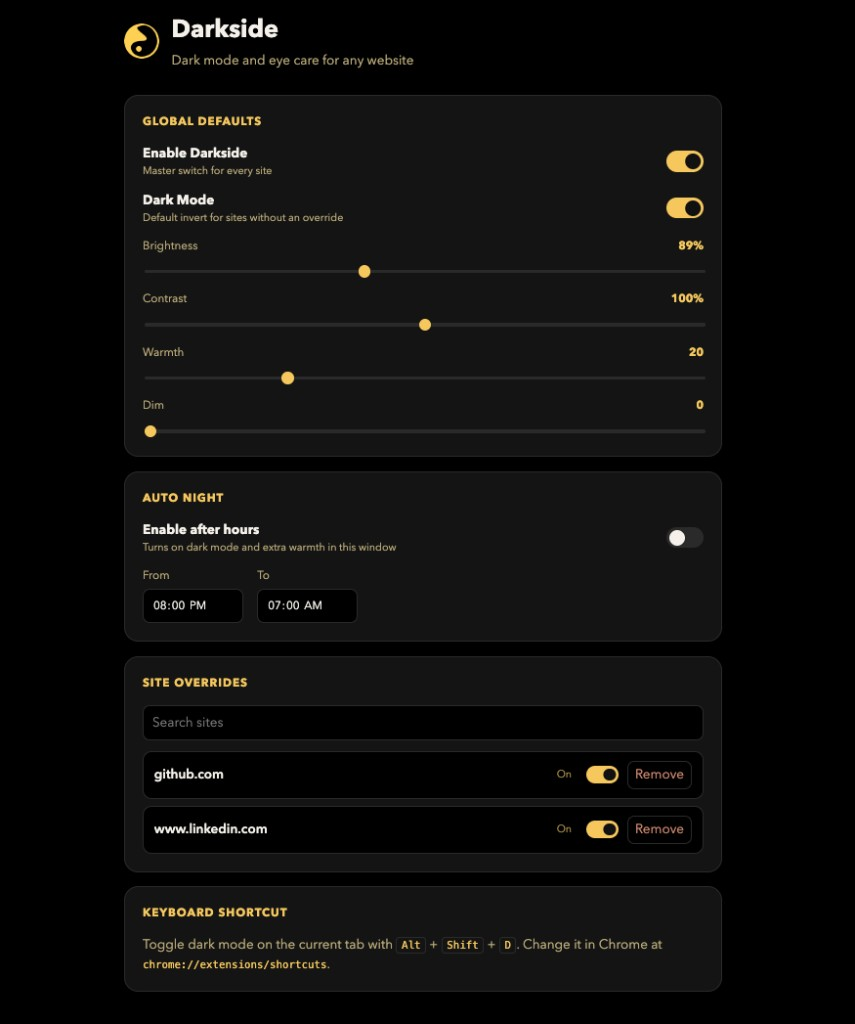
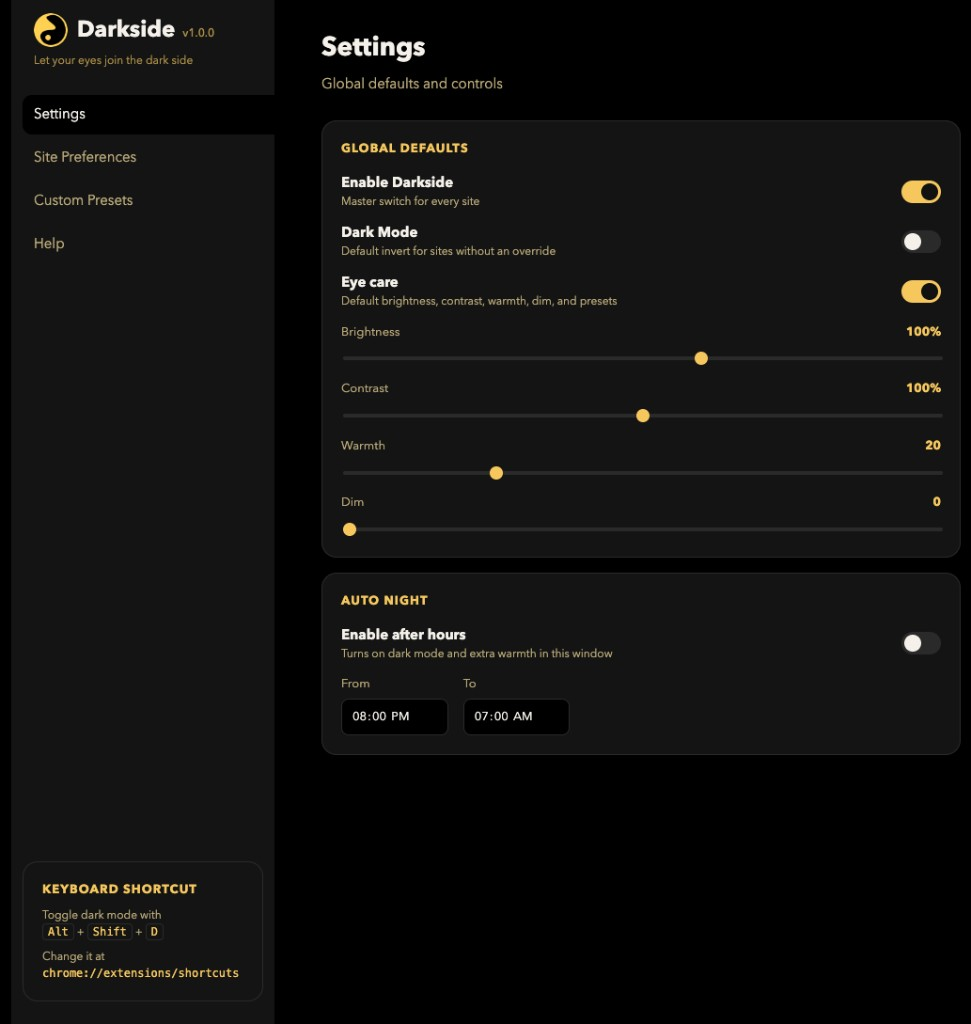
Enhance README with new settings section layout and images; add custom presets and help images. Introduce footer in popup with 'Report an issue' link and corresponding JavaScript functionality for issue reporting.

diff --git a/popup/popup.js b/popup/popup.js
@@ -424,6 +424,11 @@ document.getElementById("open-options").addEventListener("click", () => {
   chrome.runtime.openOptionsPage();
 });
 
+document.getElementById("report-issue")?.addEventListener("click", (event) => {
+  event.preventDefault();
+  chrome.tabs.create({ url: "https://github.com/dmendoza05/darkside/issues/new" });
+});
+
 chrome.storage.onChanged.addListener((changes, area) => {
   if (area !== "local" || saving || restricted) return;
   stored = darksideNormalize(darksideMergeChanges(stored, changes));

diff --git a/popup/popup.html b/popup/popup.html
@@ -163,6 +163,18 @@
       </div>
     </div>
 
+    <footer class="popup-footer">
+      <a
+        id="report-issue"
+        class="report-issue"
+        href="https://github.com/dmendoza05/darkside/issues/new"
+        target="_blank"
+        rel="noopener noreferrer"
+      >
+        Report an issue
+      </a>
+    </footer>
+
     <script src="../shared/defaults.js"></script>
     <script src="popup.js"></script>
   </body>

diff --git a/popup/popup.css b/popup/popup.css
@@ -483,3 +483,23 @@ input[type="range"]::-webkit-slider-thumb {
   cursor: default;
 }
 
+.popup-footer {
+  padding: 8px 14px 12px;
+  border-top: 1px solid var(--border);
+  text-align: center;
+}
+
+.report-issue {
+  display: inline-block;
+  padding: 4px 8px;
+  color: var(--gold-muted);
+  font: inherit;
+  font-size: 12px;
+  text-decoration: none;
+  cursor: pointer;
+}
+
+.report-issue:hover {
+  color: var(--gold);
+}
+

diff --git a/README.md b/README.md
@@ -10,9 +10,18 @@ Popup — dark mode, this-site toggle, presets, and sliders:
 
 <img src="docs/popup.png" alt="Darkside popup" width="360" />
 
-Settings — global defaults, auto night, and per-site settings:
+Settings — global defaults, site preferences, custom presets, and help:
 
-<img src="docs/settings.png" alt="Darkside settings" width="720" />
+<table>
+  <tr>
+    <td align="center"><img src="docs/settings.png" alt="Settings" width="400" /><br/>Settings</td>
+    <td align="center"><img src="docs/site-preferences.png" alt="Site Preferences" width="400" /><br/>Site Preferences</td>
+  </tr>
+  <tr>
+    <td align="center"><img src="docs/custom-presets.png" alt="Custom Presets" width="400" /><br/>Custom Presets</td>
+    <td align="center"><img src="docs/help.png" alt="Help" width="400" /><br/>Help</td>
+  </tr>
+</table>
 
 ## Run locally
 
